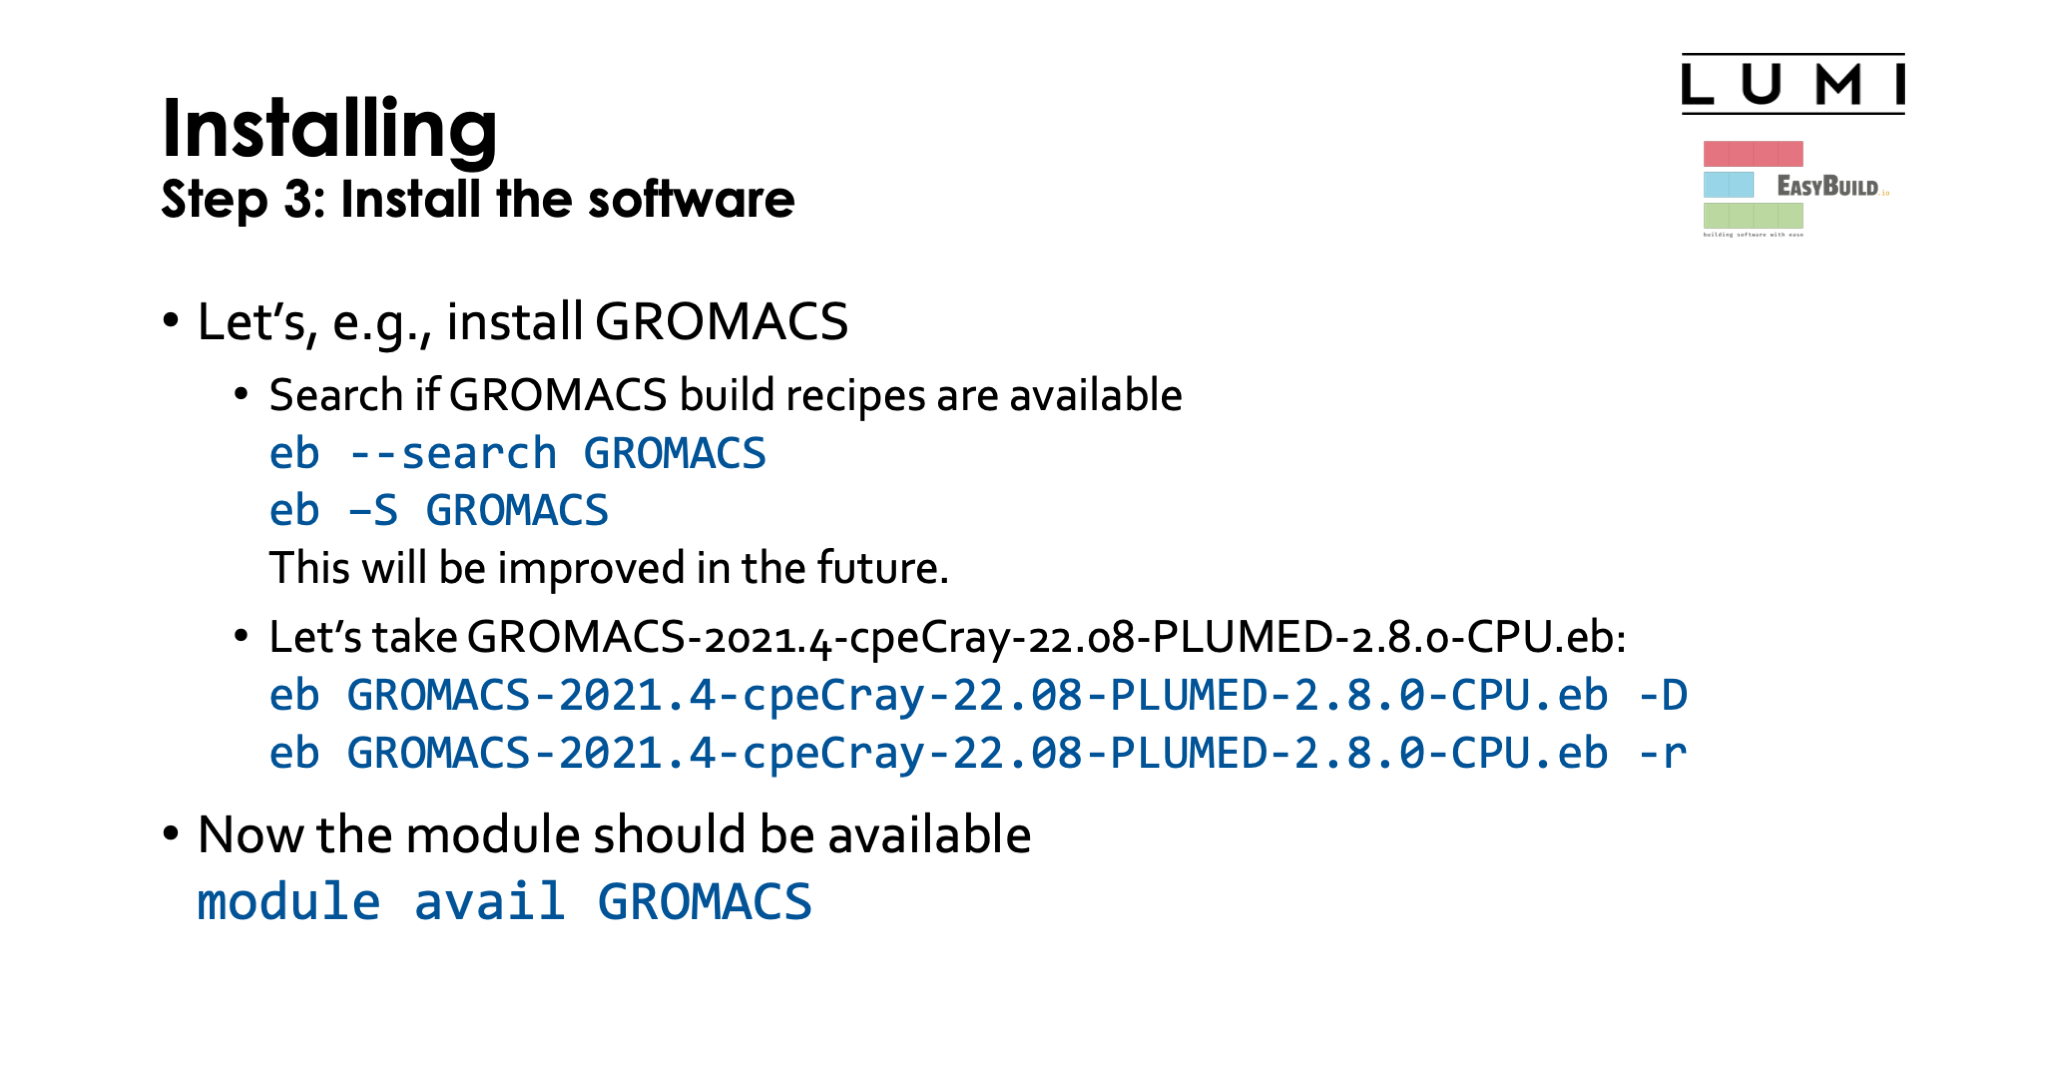
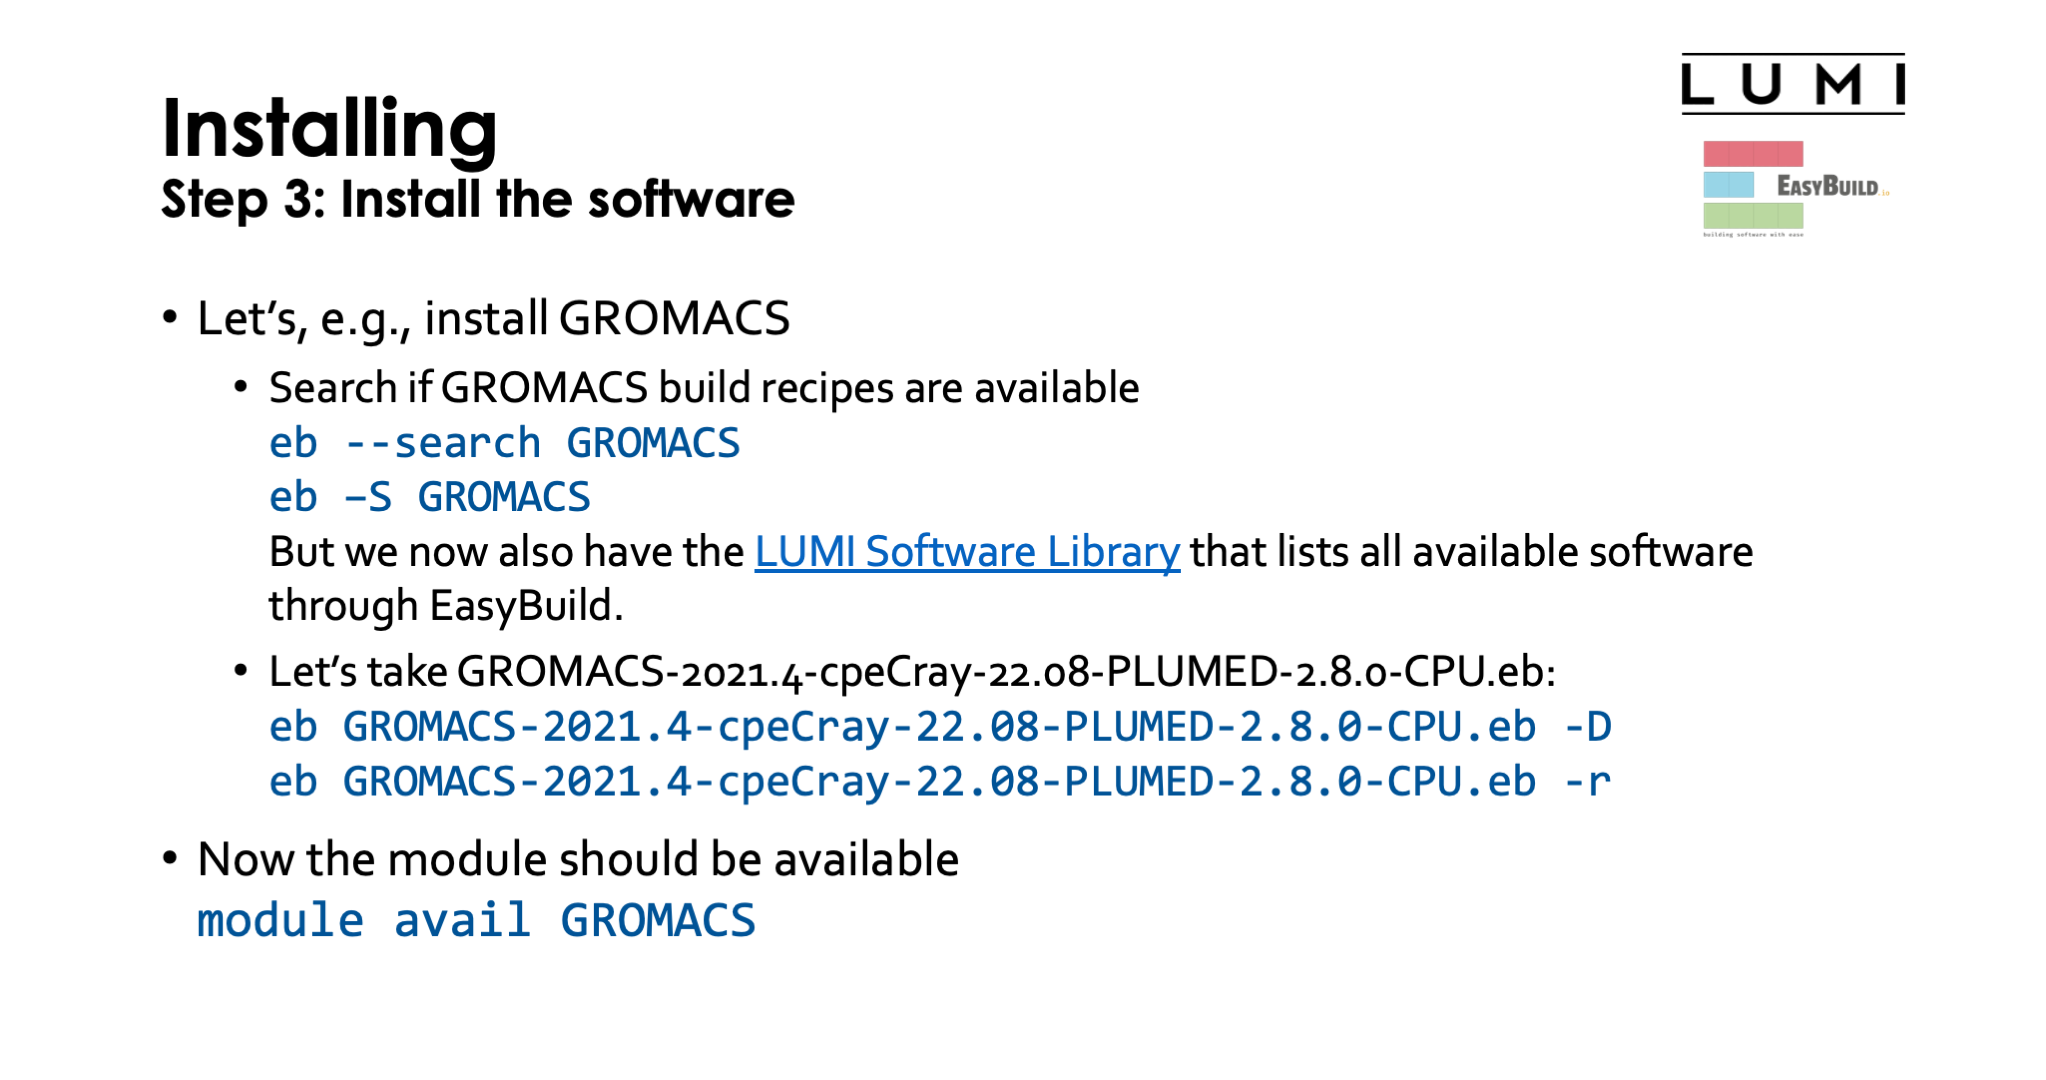
Update to the software stack with some new parts taken from the February 4-day course.

Changed region(s): [[0.0616, 0.275, 0.8622, 0.8861]]

diff --git a/docs/1day-20230321/05_Software_stack.md b/docs/1day-20230321/05_Software_stack.md
@@ -366,20 +366,132 @@ latest, before we deploy it on the system.
 We're also **working on presenting a list of supported software in the documentation**.
 
 
-### Easubuild recipes - easyconfigs
+### EasyBuild recipes - easyconfigs
 
+<figure markdown style="border: 1px solid #000">
+  ![EasyBuild recipes - easyconfigs](img/LUMI-1day-20230321-software/Dia11.png){ loading=lazy }
+</figure>
 
+EasyBuild uses a build recipe for each individual package, or better said, each individual module
+as it is possible to install more than one software package in the same module. That installation
+description relies on either a generic or a specific installation process provided by an easyblock.
+The build recipes are called easyconfig files or simply easyconfigs are are Python files with 
+the extension `.eb`. 
 
+The typical steps in an installation process are:
+
+1.  Downloading sources and patches. For licensed software you may have to provide the sources as
+    often they cannot be downloaded automatically.
+2.  A typical configure - build - test - install process, where the test process is optional and
+    depends on the package providing useable pre-installation tests.
+3.  An extension mechanism can be used to install perl/python/R extension packages
+4.  Then EasyBuild will do some simple checks (some default ones or checks defined in the recipe)
+5.  And finally it will generate the module file using lots of information specified in the 
+    EasyBuild recipe.
+
+Most or all of these steps can be influenced by parameters in the easyconfig.
 
 
 ### The toolchain concept
 
+<figure markdown style="border: 1px solid #000">
+  ![The toolchain concept](img/LUMI-1day-20230321-software/Dia12.png){ loading=lazy }
+</figure>
+
+EasyBuild uses the toolchain concept. A toolchain consists of compilers, an MPI implementation
+and some basic mathematics libraries. The latter two are optional in a toolchain. All these 
+components have a level of exchangeability as there are language standards, as MPI is standardised,
+and the math libraries that are typically included are those that provide a standard API for which
+several implementations exist. All these components also have in common that it is risky to combine 
+pieces of code compiled with different sets of such libraries and compilers because there can
+be conflicts in names in the libraries.
+
+On LUMI we don't use the standard EasyBuild toolchains but our own toolchains specifically for Cray
+and these are precisely the `cpeCray`, `cpeGNU`, `cpeAOCC` and `cpeAMD` modules already mentioned 
+before.
+
+| HPE Cray PE   | LUMI toolchain | What?                                |
+|:--------------|:---------------|:-------------------------------------|
+| `PrgEnv-cray` | `cpeCray`      | Cray Compiler Environment            |
+| `PrgEnv-gnu`  | `cpeGNU`       | GNU C/C++ and Fortran                |
+| `PrgEnv-aocc` | `cpeAOCC`      | AMD CPU compilers                    |
+| `PrgEnv-amd`  | `cpeAMD`      | AMD ROCm GPU compilers (LUMI-G only) |
 
 
+<figure markdown style="border: 1px solid #000">
+  ![The toolchain concept 2](img/LUMI-1day-20230321-software/Dia13.png){ loading=lazy }
+</figure>
 
-### Easyconfig names and module names
+There is also a special toolchain called the SYSTEM toolchain that uses the compiler
+provided by the operating system. This toolchain does not fully function in the same way as the other
+toolchains when it comes to handling dependencies of a package and is therefore a bit harder to use.
+The EasyBuild designers had in mind that this compiler would only be used to bootstrap an
+EasyBuild-managed software stack, but we do use it for a bit more on LUMI as it offers us a
+relatively easy way to compile some packages also for the CrayEnv stack and do this in a way
+that they interact as little as possible with other software.
+
+It is not possible to load packages from different cpe toolchains at the same time.
+This is an EasyBuild restriction, because mixing libraries compiled with different compilers
+does not always work. This could happen, e.g., if a package compiled with the Cray Compiling
+Environment and one compiled with the GNU compiler collection would both use a particular 
+library, as these would have the same name and hence the last loaded one would be used
+by both executables (we don't use rpath or runpath linking in EasyBuild for those familiar
+with that technique).
+
+However, as we did not implement a hierarchy in the Lmod implementation of our software stack
+at the toolchain level, the module system will not protect you from these mistakes. 
+When we set up the software stack, most people in the support team considered it too misleading
+and difficult to ask users to first select the toolchain they want to use and then see the 
+software for that toolchain.
+
+It is however possible to combine packages compiled with one CPE-based toolchain with packages
+compiled with teh system toolchain, but we do avoid mixing those when linking as that may cause
+problems. The reason is that we try to use as much as possible static linking in the SYSTEM
+toolchain so that these packages are as independent as possible.
+
+And with some tricks it might also be possible to combine packages from the LUMI software stack
+with packages compiled with Spack, but one should make sure that no Spack packages are available
+when building as mixing libraries could cause problems. Spack uses rpath linking which is why
+this may work.
 
 
+### EasyConfig names and module names
+
+<figure markdown style="border: 1px solid #000">
+  ![easyconfig names and module names](img/LUMI-1day-20230321-software/Dia14.png){ loading=lazy }
+</figure>
+
+There is a convention for the naming of an EasyConfig as shown on the slide. This is not
+mandatory, but EasyBuild will fail to automatically locate easyconfigs for dependencies 
+of a package that are not yet installed if the easyconfigs don't follow the naming
+convention. Each part of the name also corresponds to a parameter in the easyconfig 
+file.
+
+Consider, e.g., the easyconfig file `GROMACS-2021.4-cpeCray-22.08-PLUMED-2.8.0-CPU.eb`.
+
+1.  The first part of the name, `GROMACS`, is the name of the package, specified by the
+    `name` parameter in the easyconfig, and is after installation also the name of the
+    module.
+2.  The second part, `2021.4`, is the version of GROMACS and specified by the
+    `version` parameter in the easyconfig.
+3.  The next part, `cpeCray-22.08` is the name and version of the toolchain,
+    specified by the `toolchain` parameter in the easyconfig. The version of the
+    toolchain must always correspond to the version of the LUMI stack. So this is
+    and easyconfig for installation in `LUMI/22.08`.
+
+    This part is not present for the SYSTEM toolchain
+
+4.  The final part, `-PLUMED-2.8.0-CPU`, is the version suffix and used to provide
+    additional information and distinguish different builds with different options
+    of the same package. It is specified in the `versionsuffix` parameter of the
+    easyconfig.
+
+    This part is optional.
+
+The version, toolchain + toolchain version and versionsuffix together also combine
+to the version of the module that will be generated during the installation process.
+Hence this easyconfig file will generate the module 
+`GROMACS/2021.4-cpeCray-22.08-PLUMED-2.8.0-CPE`.
 
 
 
@@ -599,15 +711,34 @@ Moreover, EasyBuild also keeps **copies of all installed easconfig files in two 
     also the directory where you will find the extensive log file with all commands executed during
     the installation and their output.
 
-### Additional tips and tricks
+### EasyBuild tips and tricks
 
 <figure markdown style="border: 1px solid #000">
-  ![Additional tips and tricks](img/LUMI-1day-20230321-software/Dia33.png){ loading=lazy }
+  ![EasyBuild tips and tricks](img/LUMI-1day-20230321-software/Dia33.png){ loading=lazy }
 </figure>
 
+Updating the version of a package often requires only trivial changes in the easyconfig file.
+However, we do tend to use checksums for the sources so that we can detect if the available
+sources have changed. This may point to files being tampered with, or other changes that might
+need us to be a bit more careful when installing software and check a bit more again. 
+Should the checksum sit in the way, you can always disable it by using 
+`--ignore-checksums` with the `eb` command.
 
+Updating an existing recipe to a new toolchain might be a bit more involving as you also have
+to make build recipes for all dependencies. When we update a toolchain on the system, we
+often bump the versions of all installed libraries to one of the latest versions to have
+most bug fixes and security patches in the software stack, so you need to check for those
+versions also to avoid installing yet another unneeded version of a library.
 
-
+We provide documentation on the available software that is either pre-installed or can be
+user-installed with EasyBuild in the 
+[LUMI Software Library](https://lumi-supercomputer.github.io/LUMI-EasyBuild-docs/).
+For most packages this documentation does also contain information about the license.
+The user documentation for some packages gives more information about how to use the
+package on LUMI, or sometimes also about things that do not work.
+The documentation also shows all EasyBuild recipes, and for many packages there is 
+also some technical documentation that is more geared towards users who want to
+build or modify recipes. It sometimes also tells why we did things in a particular way.
 
 
 ### EasyBuild training for advanced users and developers
